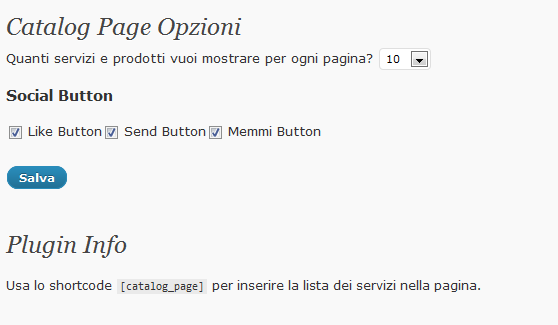
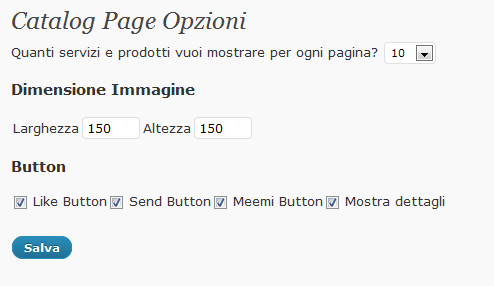
versione 1.0.4
git-svn-id: https://plugins.svn.wordpress.org/catalog-page/trunk@396684 b8457f37-d9ea-0310-8a92-e5e31aec5664

diff --git a/catalog-page.php b/catalog-page.php
@@ -4,7 +4,7 @@ Plugin Name: Catalog Page
 Plugin URI: http://wordpress.org/extend/plugins/catalog-page/
 Description: Crea facilmente la pagina per il tuo catalogo..
 Author: Vincenzo La Rosa
-Version: 1.0.3
+Version: 1.0.4
 Author URI: http://www.vincenzolarosa.it 
 */
 /*option default*/
@@ -13,7 +13,11 @@ add_option('catalog_page_fbbutton','1');
 add_option('catalog_page_fbsend','1');
 add_option('catalog_page_twbutton','0');
 add_option('catalog_page_meemibutton','1');
+add_option('catalog_page_dettagli','1');
+add_option('catalog_page_img_w','140');
+add_option('catalog_page_img_h','140');
 /*end option default*/
+
 function catalog_page_table()
 {
 	/*Read option*/
@@ -22,12 +26,15 @@ function catalog_page_table()
 	$catalog_page_fbsend=get_option('catalog_page_fbsend');
 	$catalog_page_twbutton=get_option('catalog_page_twbutton');
 	$catalog_page_meemibutton=get_option('catalog_page_meemibutton');
+	$catalog_page_img_w=get_option('catalog_page_img_w');
+	$catalog_page_img_h=get_option('catalog_page_img_h');
+	$catalog_page_dettagli=get_option('catalog_page_dettagli');
 	/*End read*/
-	
+	$dir = WP_PLUGIN_URL.'/'.str_replace(basename( __FILE__),"",plugin_basename(__FILE__));
 	$args=array('post_type'=>'servizi','posts_per_page'=>$catalog_page_ndispaly);
     $loop=new WP_Query($args);
-    if ($catalog_page_fbbutton=='1'){
-		$text.="<script src=\"http://connect.facebook.net/en_US/all.js#appId=220228844661602&amp;xfbml=1\"></script>";
+    if (($catalog_page_fbbutton=='1')||($catalog_page_fbsend=='1')){
+		$text.="<script src=\"http://connect.facebook.net/en_US/all.js#appId=220228844661602&amp;xfbml=1\"></script><div id=\"fb-root\"></div>";
 	}
 	$text.="<table border=\"0\">";
 	while ($loop->have_posts()):$loop->the_post();
@@ -36,9 +43,9 @@ function catalog_page_table()
             /*Ottiene i dati del costum post*/
             $catalog_id=get_the_ID();
             if (has_post_thumbnail()) {
-                $catalog_img=get_the_post_thumbnail($catalog_id,array(140,140));
+                $catalog_img=get_the_post_thumbnail($catalog_id,array($catalog_page_img_h,$catalog_page_img_w));
             }else{
-                $catalog_img="<img src=\"http://www.vincenzolarosa.it/wp-content/uploads/2011/06/not_found.gif\" width=\"150\" height=\"150\"/>";/*Immagine da far scegliere*/
+                $catalog_img="<img src=\"".$dir."/img/404.gif\" width=\"".$catalog_page_img_w."\" height=\"".$catalog_page_img_h."\"/>";/*Immagine da far scegliere*/
             }
             $catalog_permalink=get_permalink($catalog_id);
             $catalog_title=get_the_title($catalog_id);  
@@ -51,23 +58,22 @@ function catalog_page_table()
             <td><p align=\"center\">".$catalog_content."</p></td>
             </tr><tr>
             <td><p align=\"right\">";
-			if (($catalog_page_fbbutton=='1')&&($catalog_page_fbsend=='1')){
-				$text.="<div id=\"fb-root\"></div>
-				<fb:like href=\"".$catalog_permalink."\" send=\"true\" layout=\"button_count\" width=\"70\" show_faces=\"false\"></fb:like>";
-			}else{
-				if ($catalog_page_fbbutton=='1'){
-					$text.="<div id=\"fb-root\"></div>
-					<fb:like href=\"".$catalog_permalink."\" send=\"false\" layout=\"button_count\" width=\"70\" show_faces=\"false\"></fb:like>";
-				}
+			if ($catalog_page_fbbutton=='1'){
+				$text.="<fb:like href=\"".$catalog_permalink."\" width=\"10\" show_faces=\"false\" layout=\"button_count\" send=\"false\"></fb:like>  ";
+			}
+			if ($catalog_page_fbsend=='1'){
+				$text.="<fb:send href=\"".$catalog_permalink."\"></fb:send>  ";
 			}
 			if ($catalog_page_meemibutton=='1'){
-				$text.="<a href=\"http://meemi.com/meme/".$catalog_title." - ".$catalog_permalink."\" target=\"_blank\"><img src=\"http://meemi.com/stc/i/button/blue_this.png\" /></a>";
+				$text.=" <a href=\"http://meemi.com/meme/".$catalog_title." - ".$catalog_permalink."\" target=\"_blank\"><img src=\"http://meemi.com/stc/i/button/blue_this.png\" /></a>";
 			}
 			if ($catalog_page_twbutton=='1'){
 				$text.="twbutton";
 			}
-			$text.="<a href=\"".$catalog_permalink."\" rel=\"bookmark\" title=\"Dettagli: ".$catalog_title."\">Dettagli</a></p></td>
-            </tr>";
+			if ($catalog_page_dettagli=='1'){
+			$text.="  <a href=\"".$catalog_permalink."\" rel=\"bookmark\" title=\"Dettagli: ".$catalog_title."\"><img src=\"".$dir."/img/button-dettagli.gif\" /></a></p></td>";
+			}
+			$text.="</tr>";
 	endwhile;
 	$text.="</table><br />";
 	return $text;
@@ -100,21 +106,33 @@ function catalog_page_option()
 {
 	$action=$_POST['action'];
 	if ($action=='update' ) {
-		if (get_option('catalog_page_fbbutton')!=$_POST['fbbutton'])
+		if (get_option('catalog_page_fbbutton')!=$_POST['catalog_page_fbbutton'])
 		{
 			update_option('catalog_page_fbbutton',$_POST['fbbutton']);
 		}
-		if (get_option('catalog_page_fbsend')!=$_POST['fbsend'])
+		if (get_option('catalog_page_fbsend')!=$_POST['catalog_page_fbsend'])
 		{
 			update_option('catalog_page_fbsend',$_POST['fbsend']);
 		}
-		if (get_option('catalog_page_meemibutton')!=$_POST['meemibutton'])
+		if (get_option('catalog_page_meemibutton')!=$_POST['catalog_page_meemibutton'])
 		{
 			update_option('catalog_page_meemibutton',$_POST['meemibutton']);
 		}
-		if (get_option('catalog_page_ndisplay')!=$_POST['ndisplay'])
+		if (get_option('catalog_page_ndisplay')!=$_POST['catalog_page_ndisplay'])
 		{
-		update_option('catalog_page_ndisplay',$_POST['ndisplay']);
+		update_option('catalog_page_ndisplay',$_POST['catalog_page_ndisplay']);
+		}
+		if (get_option('catalog_page_img_h')!=$_POST['catalog_page_img_h'])
+		{
+		update_option('catalog_page_img_h',$_POST['catalog_page_img_h']);
+		}
+		if (get_option('catalog_page_img_w')!=$_POST['catalog_page_img_w'])
+		{
+		update_option('catalog_page_img_w',$_POST['catalog_page_img_w']);
+		}
+		if (get_option('catalog_page_dettagli')!=$_POST['catalog_page_dettagli'])
+		{
+		update_option('catalog_page_dettagli',$_POST['catalog_page_dettagli']);
 		}
 ?>
 <div id="message" class="updated fade">
@@ -141,17 +159,25 @@ function catalog_page_option()
 				?>
 			</select>
 			<br />
-			<h3>Social Button</h3>
+			<h3>Dimensione Immagine</h3>
+			<table border="0">
+			<tr>
+			<td>Larghezza</td><td><input type="text" name="catalog_page_img_w" value="<? echo get_option('catalog_page_img_w');?>" size="5"/></td>
+			<td>Altezza</td><td><input type="text" name="catalog_page_img_h" value="<? echo get_option('catalog_page_img_h'); ?>" size="5"/></td>
+			</tr>
+			</table>
+			<h3>Button</h3>
 			<table border="0">
 			<tr>
 			<td><input type="checkbox" name="catalog_page_fbbutton" value="1" <? if (get_option('catalog_page_fbbutton')=='1'){?> checked="true" <?}?> value="Like Button">  Like Button</td>
 			<td><input type="checkbox" name="catalog_page_fbsend" value="1" <? if (get_option('catalog_page_fbsend')=='1'){?> checked="true" <?}?> value="Send Button">  Send Button</td>
 			<td><input type="checkbox" name="catalog_page_meemibutton" value="1" <? if (get_option('catalog_page_meemibutton')=='1'){?> checked="true" <?}?> value="Meemi Button">  Meemi Button</td>
+			<td><input type="checkbox" name="catalog_page_dettagli" value="1" <? if (get_option('catalog_page_dettagli')=='1'){?> checked="true" <?}?> value="Dettagli Button">  Mostra dettagli</td>
 			</tr>
 			</table>
 			<p class="submit"><input type="submit" value="<?php _e('Save') ?>" class="button-primary" name="catalog_page_save"/></p>
 			<?php wp_nonce_field('update-options'); ?>
-			<input type="hidden" name="page_options" value="catalog_page_fbbutton,catalog_page_fbsend,catalog_page_meemibutton,catalog_page_ndisplay">
+			<input type="hidden" name="page_options" value="catalog_page_dettagli,catalog_page_fbbutton,catalog_page_fbsend,catalog_page_meemibutton,catalog_page_ndisplay,catalog_page_img_h,catalog_page_img_w">
 			<input type="hidden" name="action" value="update" />
 		</form>
 	<h2>Plugin Info</h2>
@@ -173,8 +199,8 @@ function catalog_page_option()
 <?
 }
 
+
 add_action('admin_menu', 'catalog_page_menu');
-//add_action('init','catalog_page_option');
 add_action('init','catalog_page_post_type'); /*aggiunge il tipo di post */
 add_shortcode('catalog_page', 'catalog_page_table'); /*aggiunge lo short code [catalog_page]*/
 ?>
